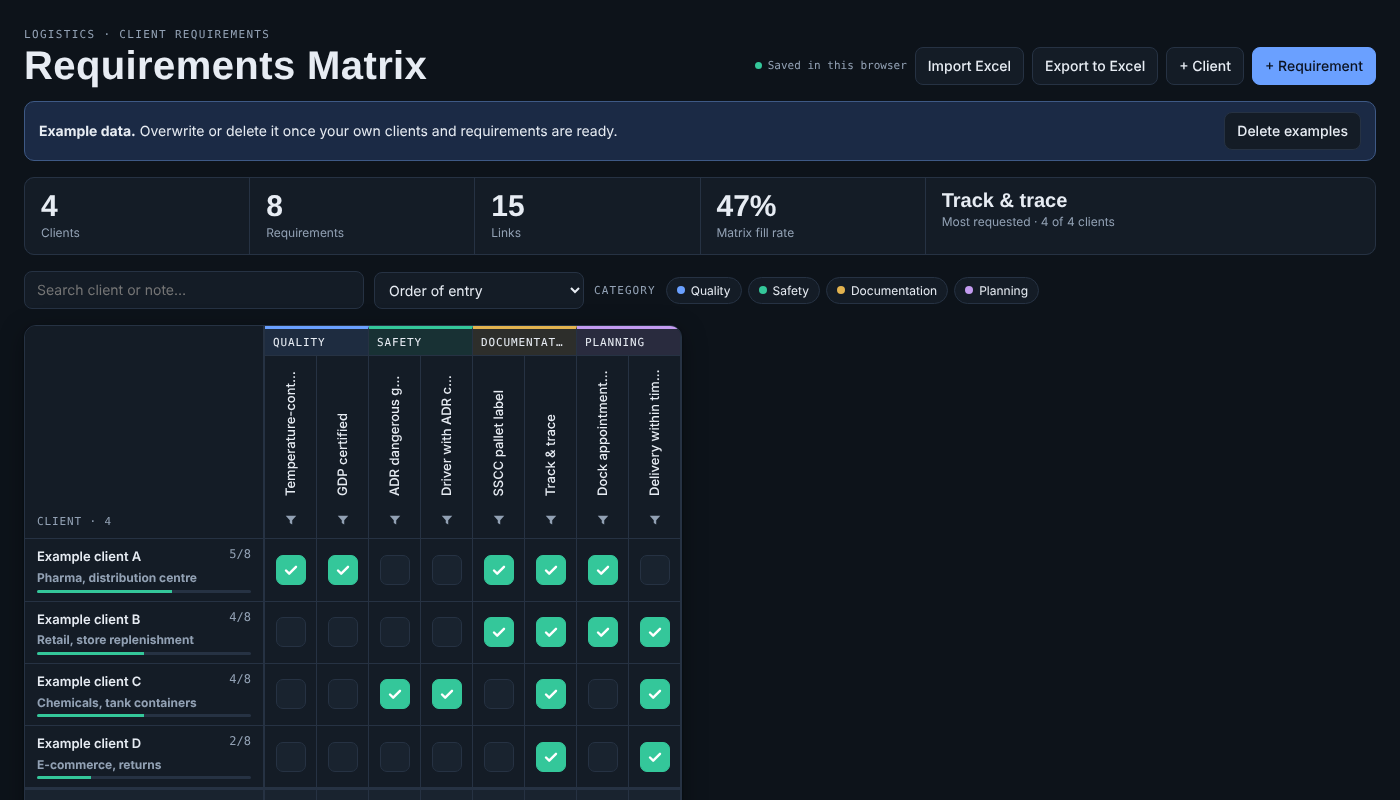
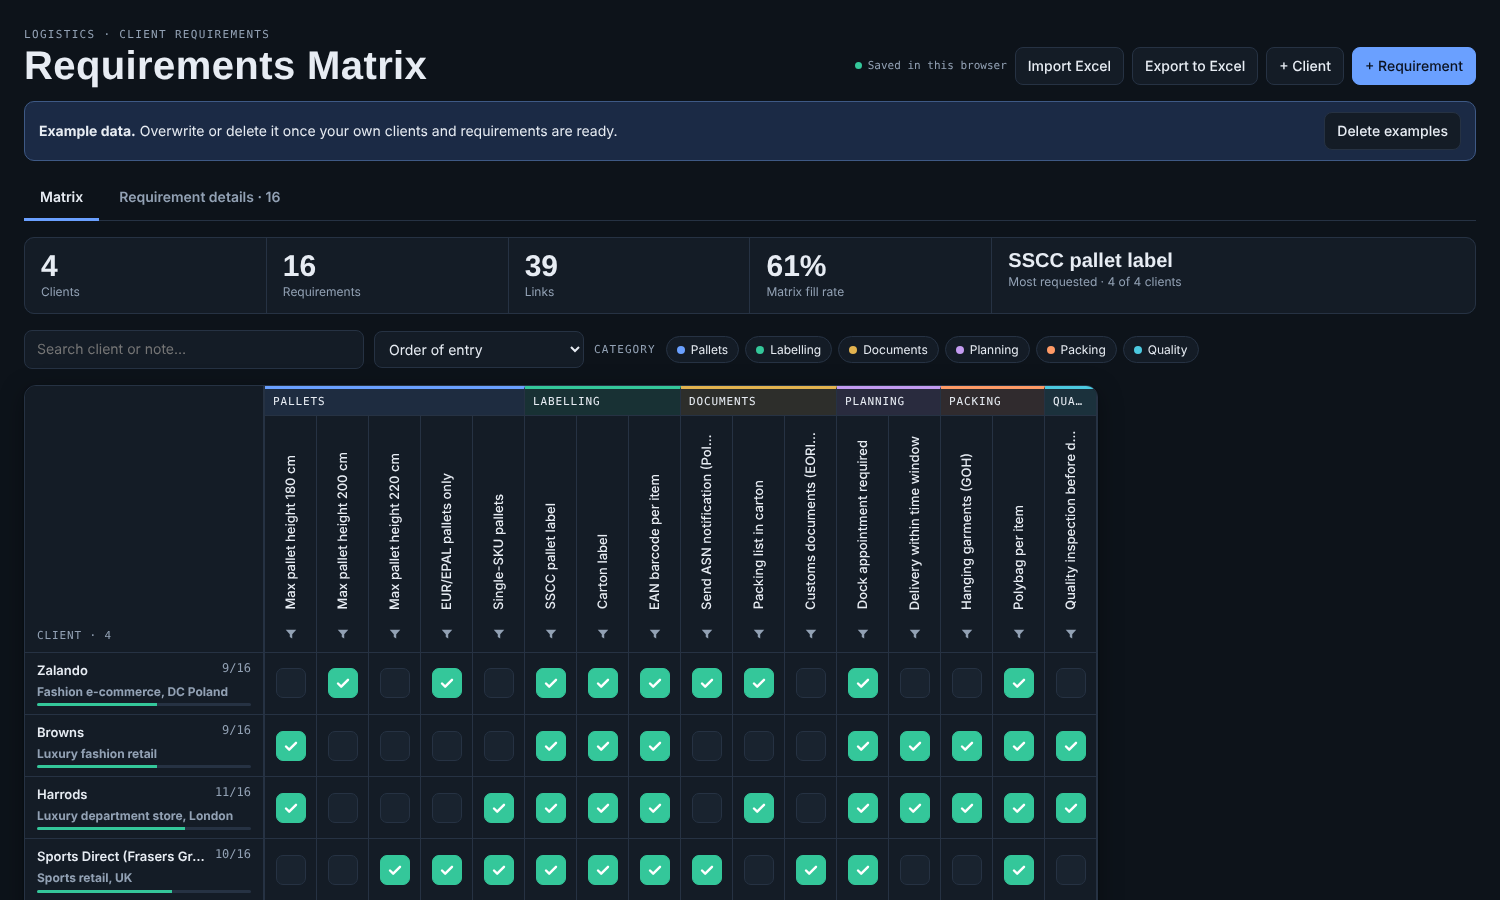
Logistics example data, requirement details page
Claude-Session: https://claude.ai/code/session_01Hv9JikeGcqfPouDBhqsZoj

Changed region(s): [[0.0, 0.0312, 0.9829, 1.0], [0.0307, 0.625, 0.0614, 0.6562]]

diff --git a/output/Requirements-Matrix.html b/output/Requirements-Matrix.html
@@ -44,6 +44,7 @@ var o=[];var l=Array.isArray(e);for(f=n.s.c;f<=n.e.c;++f)s[f]=ya(f);for(var c=n.
   --c1:#6AA0FF; --c2:#34C79A; --c3:#E3B34F; --c4:#C39BF0; --c5:#FF9A66; --c6:#4CC9E0;
   --shadow:0 1px 2px rgba(0,0,0,.4),0 6px 24px rgba(0,0,0,.35); color-scheme:dark}
 *{box-sizing:border-box}
+[hidden]{display:none!important}
 body{background:var(--bg);color:var(--fg);font:14px/1.45 var(--f-body);padding-inline:max(16px,env(safe-area-inset-left,0px)) max(16px,env(safe-area-inset-right,0px));padding-block:20px 40px}
 .wrap{max-width:1500px;margin:0 auto;display:flex;flex-direction:column;gap:16px}
 button,input,textarea,select{font:inherit;color:inherit}
@@ -84,9 +85,9 @@ table{border-collapse:separate;border-spacing:0;font-size:13px;width:max-content
 th,td{padding:0;border-bottom:1px solid var(--line);border-right:1px solid var(--line);background:var(--surface)}
 thead th{position:sticky;z-index:3}
 .catrow th{top:0;height:30px;font:500 11px var(--f-mono);letter-spacing:.08em;text-transform:uppercase;text-align:left;padding:0 8px;white-space:nowrap;overflow:hidden;text-overflow:ellipsis;max-width:0;border-top:3px solid var(--cc,var(--line));background:color-mix(in srgb,var(--cc,var(--line)) 12%,var(--surface))}
-.hdrrow th{top:30px;height:176px;vertical-align:bottom;width:52px;min-width:52px}
+.hdrrow th{top:30px;height:230px;vertical-align:bottom;width:52px;min-width:52px}
 .hbtn{display:flex;flex-direction:column;align-items:center;justify-content:flex-end;gap:6px;width:100%;height:100%;padding:6px 0;border:0;background:none}
-.rh{writing-mode:vertical-rl;transform:rotate(180deg);max-height:128px;overflow:hidden;text-overflow:ellipsis;white-space:nowrap;font-weight:500;font-size:13px}
+.rh{writing-mode:vertical-rl;transform:rotate(180deg);max-height:182px;overflow:hidden;text-overflow:ellipsis;white-space:nowrap;font-weight:500;font-size:13px}
 .hbtn:hover .rh{color:var(--accent)}
 .fbtn{width:24px;height:24px;border:1px solid transparent;background:none;border-radius:6px;color:var(--mute);display:grid;place-items:center;padding:0}
 .fbtn:hover{border-color:var(--line)}
@@ -130,6 +131,23 @@ tfoot small{display:block;color:var(--mute);font-size:10px}
 .ci{display:flex;gap:10px;align-items:center;padding:5px 6px;border-radius:6px;border:0;background:none;text-align:left;width:100%}
 .ci:hover{background:var(--surface2)}
 .toast{position:fixed;left:50%;bottom:calc(20px + env(safe-area-inset-bottom,0px));transform:translateX(-50%);background:var(--fg);color:var(--bg);padding:10px 16px;border-radius:10px;z-index:80;box-shadow:var(--shadow);max-width:90vw}
+.tabs{display:flex;gap:4px;border-bottom:1px solid var(--line)}
+.tab{border:0;background:none;padding:10px 16px;font-weight:600;color:var(--mute);border-bottom:3px solid transparent;margin-bottom:-1px}
+.tab[aria-selected="true"]{color:var(--fg);border-bottom-color:var(--accent)}
+.tab:hover{color:var(--fg)}
+.dtools{display:flex;flex-wrap:wrap;gap:10px;align-items:center}
+.dlist{display:flex;flex-direction:column;gap:12px}
+.dgrp{font:500 11px var(--f-mono);letter-spacing:.1em;text-transform:uppercase;color:var(--mute);display:flex;gap:8px;align-items:center;padding-top:8px}
+.dgrp .dot{width:9px;height:9px;border-radius:50%}
+.dc{background:var(--surface);border:1px solid var(--line);border-radius:12px;padding:14px 16px;display:flex;flex-direction:column;gap:12px}
+.dh{display:flex;flex-wrap:wrap;gap:8px 12px;align-items:center;justify-content:space-between}
+.dh h3{margin:0;font:600 22px var(--f-display);min-width:0;overflow-wrap:anywhere}
+.dh .m{font:500 12px var(--f-mono);color:var(--mute)}
+.dg{display:grid;grid-template-columns:2fr 1fr;gap:12px}
+.dc .field textarea{min-height:84px}
+.who{display:flex;flex-wrap:wrap;gap:6px;align-items:center;font-size:12px;color:var(--mute)}
+.who span.c{border:1px solid var(--line);border-radius:999px;padding:2px 9px;color:var(--fg);background:var(--surface2)}
+@media (max-width:700px){.dg{grid-template-columns:1fr}}
 @media (max-width:600px){h1{font-size:34px}.first{min-width:170px;max-width:170px}.stat.wide{grid-column:1/-1}.scroll{max-height:calc(100vh - 110px)}}
 @media (prefers-reduced-motion:reduce){*{transition:none!important}}
 </style>
@@ -151,10 +169,15 @@ tfoot small{display:block;color:var(--mute);font-size:10px}
     </div>
   </header>
   <div id="banner"></div>
+  <nav class="tabs" role="tablist" id="tabs"></nav>
   <section class="stats" id="stats" aria-label="Summary"></section>
   <section class="filters" id="filters"></section>
   <section class="scroll" id="matrix" aria-label="Matrix"></section>
-  <p class="hint">Click a box to link a requirement to a client. Click a client name or column heading to edit it. The funnel icon under a column heading shows only the clients that have that requirement.</p>
+  <section id="details" hidden>
+    <div class="dtools"><input class="search" id="dq" type="search" placeholder="Search requirements or explanations…" aria-label="Search requirements"><select class="sel" id="dsel" aria-label="Show"><option value="all">All requirements</option><option value="missing">Without explanation</option></select></div>
+    <div class="dlist" id="dlist" style="margin-top:14px"></div>
+  </section>
+  <p class="hint" id="mhint">Click a box to link a requirement to a client. Click a client name or column heading to edit it. The funnel icon under a column heading shows only the clients that have that requirement.</p>
   <p class="hint">Your data is saved automatically in this browser on this computer, not online. Use <b>Export to Excel</b> regularly as a backup or to share with colleagues.</p>
 </div>
 <div id="modal"></div>
@@ -169,10 +192,10 @@ const store=(function(){
   let data={clients:{},reqs:{},checks:{}}, subs={clients:[],reqs:[],checks:[]};
   try{ const raw=localStorage.getItem(KEY); if(raw) data=JSON.parse(raw); else data=seed(); }catch(e){ data=seed(); }
   function seed(){
-    const d={clients:{},reqs:{},checks:{}};
-    [['c1','Example client A','Pharma, distribution centre'],['c2','Example client B','Retail, store replenishment'],['c3','Example client C','Chemicals, tank containers'],['c4','Example client D','E-commerce, returns']].forEach(([id,name,note],i)=>d.clients[id]={name,note,order:i+1,ex:true});
-    [['r1','Temperature-controlled 2–8 °C','Quality'],['r2','GDP certified','Quality'],['r3','ADR dangerous goods','Safety'],['r4','Driver with ADR certificate','Safety'],['r5','SSCC pallet label','Documentation'],['r6','Track & trace','Documentation'],['r7','Dock appointment required','Planning'],['r8','Delivery within time window','Planning']].forEach(([id,name,cat],i)=>d.reqs[id]={name,cat,desc:'Example',order:i+1,ex:true});
-    d.checks={c1:{m:{r1:1,r2:1,r5:1,r6:1,r7:1}},c2:{m:{r5:1,r6:1,r7:1,r8:1}},c3:{m:{r3:1,r4:1,r6:1,r8:1}},c4:{m:{r6:1,r8:1}}};
+    const S={"clients": [["c1", "Zalando", "Fashion e-commerce, DC Poland"], ["c2", "Browns", "Luxury fashion retail"], ["c3", "Harrods", "Luxury department store, London"], ["c4", "Sports Direct (Frasers Group)", "Sports retail, UK"]], "reqs": [["r1", "Max pallet height 180 cm", "Pallets", "Pallet including goods may not exceed 180 cm from floor. Example text: replace with the exact rule and tolerance from the client manual.", "Example"], ["r2", "Max pallet height 200 cm", "Pallets", "Pallet including goods may not exceed 200 cm. Example text.", "Example"], ["r3", "Max pallet height 220 cm", "Pallets", "Pallet including goods may not exceed 220 cm. Example text.", "Example"], ["r4", "EUR/EPAL pallets only", "Pallets", "Only undamaged EUR/EPAL pallets accepted; no chemical or one-way pallets. Example text.", "Example"], ["r5", "Single-SKU pallets", "Pallets", "One article per pallet; no mixed pallets. Example text.", "Example"], ["r6", "SSCC pallet label", "Labelling", "SSCC (GS1-128) label on two adjacent sides of every pallet, 40-80 cm from the floor. Example text.", "Example"], ["r7", "Carton label", "Labelling", "Carton label with article, quantity and PO number on the short side of each carton. Example text.", "Example"], ["r8", "EAN barcode per item", "Labelling", "Every item carries a scannable EAN barcode on the tag or polybag. Example text.", "Example"], ["r9", "Send ASN notification (Poland)", "Documents", "Send an advance shipping notice (ASN) before dispatch for deliveries to the Polish DC. Example text: add format, deadline and recipient.", "Example"], ["r10", "Packing list in carton", "Documents", "Printed packing list placed inside each carton. Example text.", "Example"], ["r11", "Customs documents (EORI/CN)", "Documents", "Customs documents with EORI number and CN codes for cross-border shipments. Example text.", "Example"], ["r12", "Dock appointment required", "Planning", "Book a dock slot before arrival; late arrivals are rejected. Example text.", "Example"], ["r13", "Delivery within time window", "Planning", "Deliver within the confirmed time window (for example +/- 30 min). Example text.", "Example"], ["r14", "Hanging garments (GOH)", "Packing", "Garments on hangers in GOH containers, not folded in cartons. Example text.", "Example"], ["r15", "Polybag per item", "Packing", "Each item in a sealed polybag with suffocation warning. Example text.", "Example"], ["r16", "Quality inspection before dispatch", "Quality", "Sample inspection before dispatch with a report on request. Example text.", "Example"]], "ticks": {"c1": ["r2", "r4", "r6", "r7", "r8", "r9", "r10", "r12", "r15"], "c2": ["r1", "r6", "r7", "r8", "r12", "r13", "r14", "r15", "r16"], "c3": ["r1", "r5", "r6", "r7", "r8", "r10", "r12", "r13", "r14", "r15", "r16"], "c4": ["r3", "r4", "r5", "r6", "r7", "r8", "r9", "r11", "r12", "r15"]}}; const d={clients:{},reqs:{},checks:{}};
+    S.clients.forEach(([id,name,note],i)=>d.clients[id]={name,note,order:i+1,ex:true});
+    S.reqs.forEach(([id,name,cat,desc,source],i)=>d.reqs[id]={name,cat,desc,source,order:i+1,ex:true});
+    Object.entries(S.ticks).forEach(([cid,l])=>{const m={};l.forEach(r=>m[r]=true);d.checks[cid]={m}});
     return d;
   }
   function save(){ try{ localStorage.setItem(KEY,JSON.stringify(data)); }catch(e){ /* storage blocked: data lives until the tab closes */ } }
@@ -206,7 +229,7 @@ let db=null, canWrite=true;
 let clients=[], reqs=[], checks={};
 let ready={c:false,r:false,k:false};
 const F={q:'',hiddenCats:new Set(),reqs:new Set(),sort:'order'};
-let modal=null;
+let modal=null; let view='matrix'; const D={q:'',show:'all'};
 
 const catOf=r=>(r.cat||'').trim()||'Other';
 function sortedReqs(){
@@ -258,7 +281,27 @@ function visibleClients(){
 }
 function render(){
   if(!(ready.c&&ready.r&&ready.k)){ $('#matrix').innerHTML='<div class="empty"><p>Loading data…</p></div>'; return; }
-  renderBanner(); renderStats(); renderFilters(); renderMatrix();
+  renderBanner(); renderStats(); renderTabs();
+  const dv=view==='details'; $('#filters').hidden=dv; $('#matrix').hidden=dv; $('#mhint').hidden=dv; $('#details').hidden=!dv;
+  if(dv) renderDetails(); else { renderFilters(); renderMatrix(); }
+}
+function renderTabs(){
+  $('#tabs').innerHTML=[['matrix','Matrix'],['details','Requirement details']].map(([k,l])=>`<button class="tab" role="tab" data-act="tab" data-v="${k}" aria-selected="${view===k}">${l}${k==='details'?` · ${reqs.length}`:''}</button>`).join('');
+}
+function renderDetails(){
+  const q=D.q.trim().toLowerCase(); const list=sortedReqs().filter(r=>(!q||((r.name||'')+' '+(r.desc||'')+' '+(r.source||'')+' '+catOf(r)).toLowerCase().includes(q))&&(D.show==='all'||!(r.desc||'').trim()));
+  if(!reqs.length){ $('#dlist').innerHTML='<div class="empty"><h2>No requirements yet</h2><p>Add requirements first, then explain each one here.</p><button class="btn primary" data-act="add-req">+ Requirements</button></div>'; return; }
+  if(!list.length){ $('#dlist').innerHTML='<div class="empty"><p>Nothing found.</p></div>'; return; }
+  let last=null, out='';
+  list.forEach(r=>{ const c=catOf(r);
+    if(c!==last){ out+=`<div class="dgrp"><span class="dot" style="background:${catColor(c)}"></span>${esc(c)}</div>`; last=c; }
+    const who=clients.filter(cl=>isOn(cl.id,r.id));
+    out+=`<article class="dc"><div class="dh"><h3>${esc(r.name)}</h3><span class="m">${who.length} of ${clients.length} clients</span><button class="btn ghost" data-act="edit-req" data-v="${r.id}">Rename / category / delete</button></div>
+     <div class="dg"><div class="field"><label for="dd-${r.id}">Explanation</label><textarea id="dd-${r.id}" class="dd" data-id="${r.id}" data-f="desc" placeholder="What exactly is required? Add rules, tolerances, examples, exceptions.">${esc(r.desc||'')}</textarea></div>
+     <div class="field"><label for="ds-${r.id}">Source / reference</label><textarea id="ds-${r.id}" class="dd" data-id="${r.id}" data-f="source" placeholder="E.g. client manual section 4.2, email 12 May, contact person">${esc(r.source||'')}</textarea></div></div>
+     <div class="who"><span>Applies to:</span>${who.length?who.map(cl=>`<span class="c">${esc(cl.name)}</span>`).join(''):'<span>no clients yet</span>'}</div></article>`;
+  });
+  $('#dlist').innerHTML=out;
 }
 function renderBanner(){
   const n=clients.filter(c=>c.ex).length+reqs.filter(r=>r.ex).length;
@@ -389,9 +432,9 @@ function buildWorkbook(){
   ws['!autofilter']={ref:XLSX.utils.encode_range({s:{r:1,c:0},e:{r:1+cl.length,c:rl.length+2}})};
   ws['!freeze']={xSplit:2,ySplit:2};
   const wb=XLSX.utils.book_new(); XLSX.utils.book_append_sheet(wb,ws,'Matrix');
-  const a2=[['Requirement','Category','Description','Number of clients','Clients']];
-  rl.forEach(r=>{const k=cl.filter(c=>isOn(c.id,r.id)); a2.push([r.name,catOf(r),r.desc||'',k.length,k.map(c=>c.name).join('; ')])});
-  const w2=XLSX.utils.aoa_to_sheet(a2); w2['!cols']=[{wch:34},{wch:18},{wch:40},{wch:14},{wch:60}]; w2['!autofilter']={ref:'A1:E'+a2.length};
+  const a2=[['Requirement','Category','Description','Source','Number of clients','Clients']];
+  rl.forEach(r=>{const k=cl.filter(c=>isOn(c.id,r.id)); a2.push([r.name,catOf(r),r.desc||'',r.source||'',k.length,k.map(c=>c.name).join('; ')])});
+  const w2=XLSX.utils.aoa_to_sheet(a2); w2['!cols']=[{wch:34},{wch:18},{wch:60},{wch:30},{wch:14},{wch:60}]; w2['!autofilter']={ref:'A1:F'+a2.length};
   XLSX.utils.book_append_sheet(wb,w2,'Requirements');
   const a3=[['Client','Category','Requirement']];
   cl.forEach(c=>rl.forEach(r=>{if(isOn(c.id,r.id))a3.push([c.name,catOf(r),r.name])}));
@@ -433,6 +476,9 @@ async function doImport(file){
       for(let i=2;i<end;i++) if(colIds[i]&&String(row[i]).trim()!=='') m[colIds[i]]=true;
       checks[cid]=m; await db.collection('checks').doc(cid).set({m});
     }
+    const ws2=wb.Sheets['Requirements'];
+    if(ws2){ const rr=XLSX.utils.sheet_to_json(ws2,{header:1,defval:''}); const h=(rr[0]||[]).map(x=>String(x).trim().toLowerCase()); const iD=h.indexOf('description'),iS=h.indexOf('source');
+      for(let i=1;i<rr.length;i++){ const id=rmap[key(rr[i][0])]; if(!id) continue; const u={}; if(iD>=0&&String(rr[i][iD]).trim()) u.desc=String(rr[i][iD]).trim(); if(iS>=0&&String(rr[i][iS]).trim()) u.source=String(rr[i][iS]).trim(); if(Object.keys(u).length) await db.collection('reqs').doc(id).update(u); } }
     sched(); toast(`Imported: ${newC} new clients, ${newR} new requirements`);
   }catch(e){ toast('Import failed. Use a file that was exported from here.'); }
 }
@@ -443,6 +489,7 @@ document.addEventListener('click',e=>{
   const a=t.dataset.act, v=t.dataset.v;
   if(a==='mbg'){ if(e.target===t) closeModal(); return; }
   switch(a){
+    case 'tab': view=v; sched(); break;
     case 'tick': toggle(t.dataset.r,t.dataset.q); break;
     case 'mtick': {toggle(t.dataset.r,t.dataset.q); t.firstElementChild.classList.toggle('on'); break}
     case 'add-client': canWrite?openModal({type:'client'}):toast('You cannot make changes here'); break;
@@ -461,8 +508,10 @@ document.addEventListener('click',e=>{
     case 'reset': F.q='';F.hiddenCats.clear();F.reqs.clear(); sched(); break;
   }
 });
-document.addEventListener('input',e=>{ if(e.target.id==='q'){ F.q=e.target.value; const p=e.target.selectionStart; renderMatrix(); renderStats(); } });
-document.addEventListener('change',e=>{ if(e.target.id==='sort'){F.sort=e.target.value;sched()} if(e.target.id==='file'&&e.target.files[0]){doImport(e.target.files[0]);e.target.value=''} });
+document.addEventListener('input',e=>{ if(e.target.id==='dq'){ D.q=e.target.value; renderDetails(); return; } if(e.target.id==='q'){ F.q=e.target.value; const p=e.target.selectionStart; renderMatrix(); renderStats(); } });
+document.addEventListener('change',e=>{
+  if(e.target.id==='dsel'){D.show=e.target.value;renderDetails();return}
+  if(e.target.classList&&e.target.classList.contains('dd')){ const t=e.target; if(db&&canWrite) enqueue('d'+t.dataset.id,()=>db.collection('reqs').doc(t.dataset.id).update({[t.dataset.f]:t.value.trim(),ex:false})).then(()=>toast('Saved')); return; } if(e.target.id==='sort'){F.sort=e.target.value;sched()} if(e.target.id==='file'&&e.target.files[0]){doImport(e.target.files[0]);e.target.value=''} });
 document.addEventListener('keydown',e=>{
   if(e.key==='Escape'&&modal) closeModal();
   if(e.key==='Enter'&&modal&&e.target.tagName==='INPUT'&&e.target.id!=='f-cat'){e.preventDefault();saveModal()}
